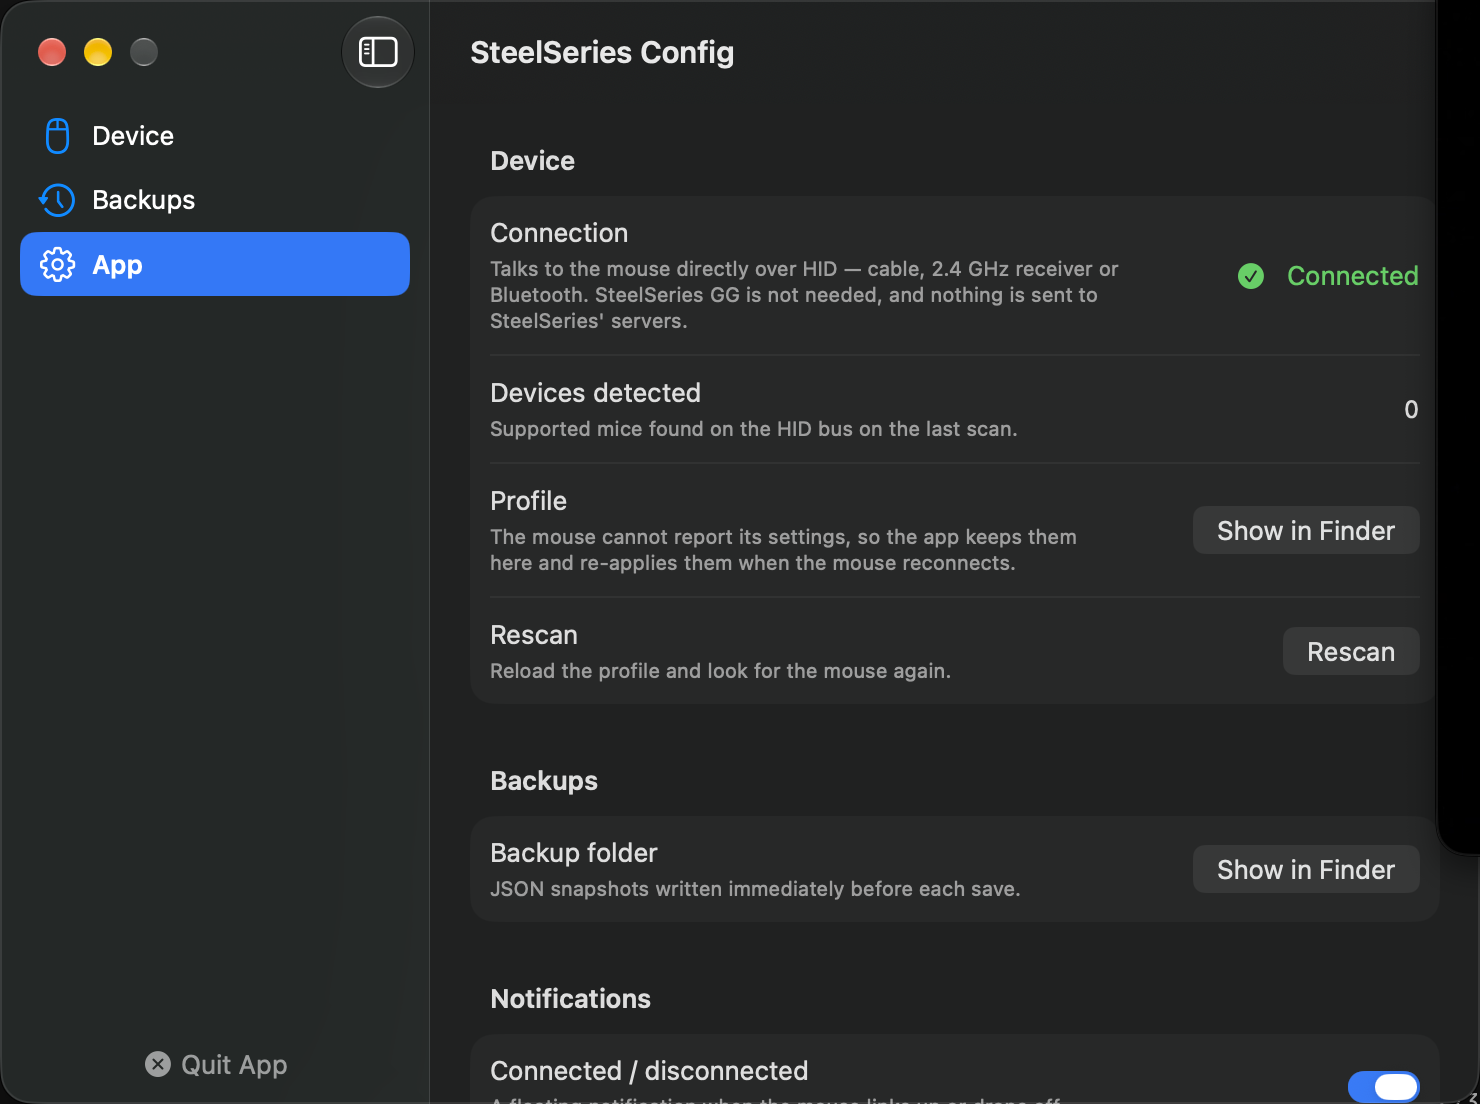
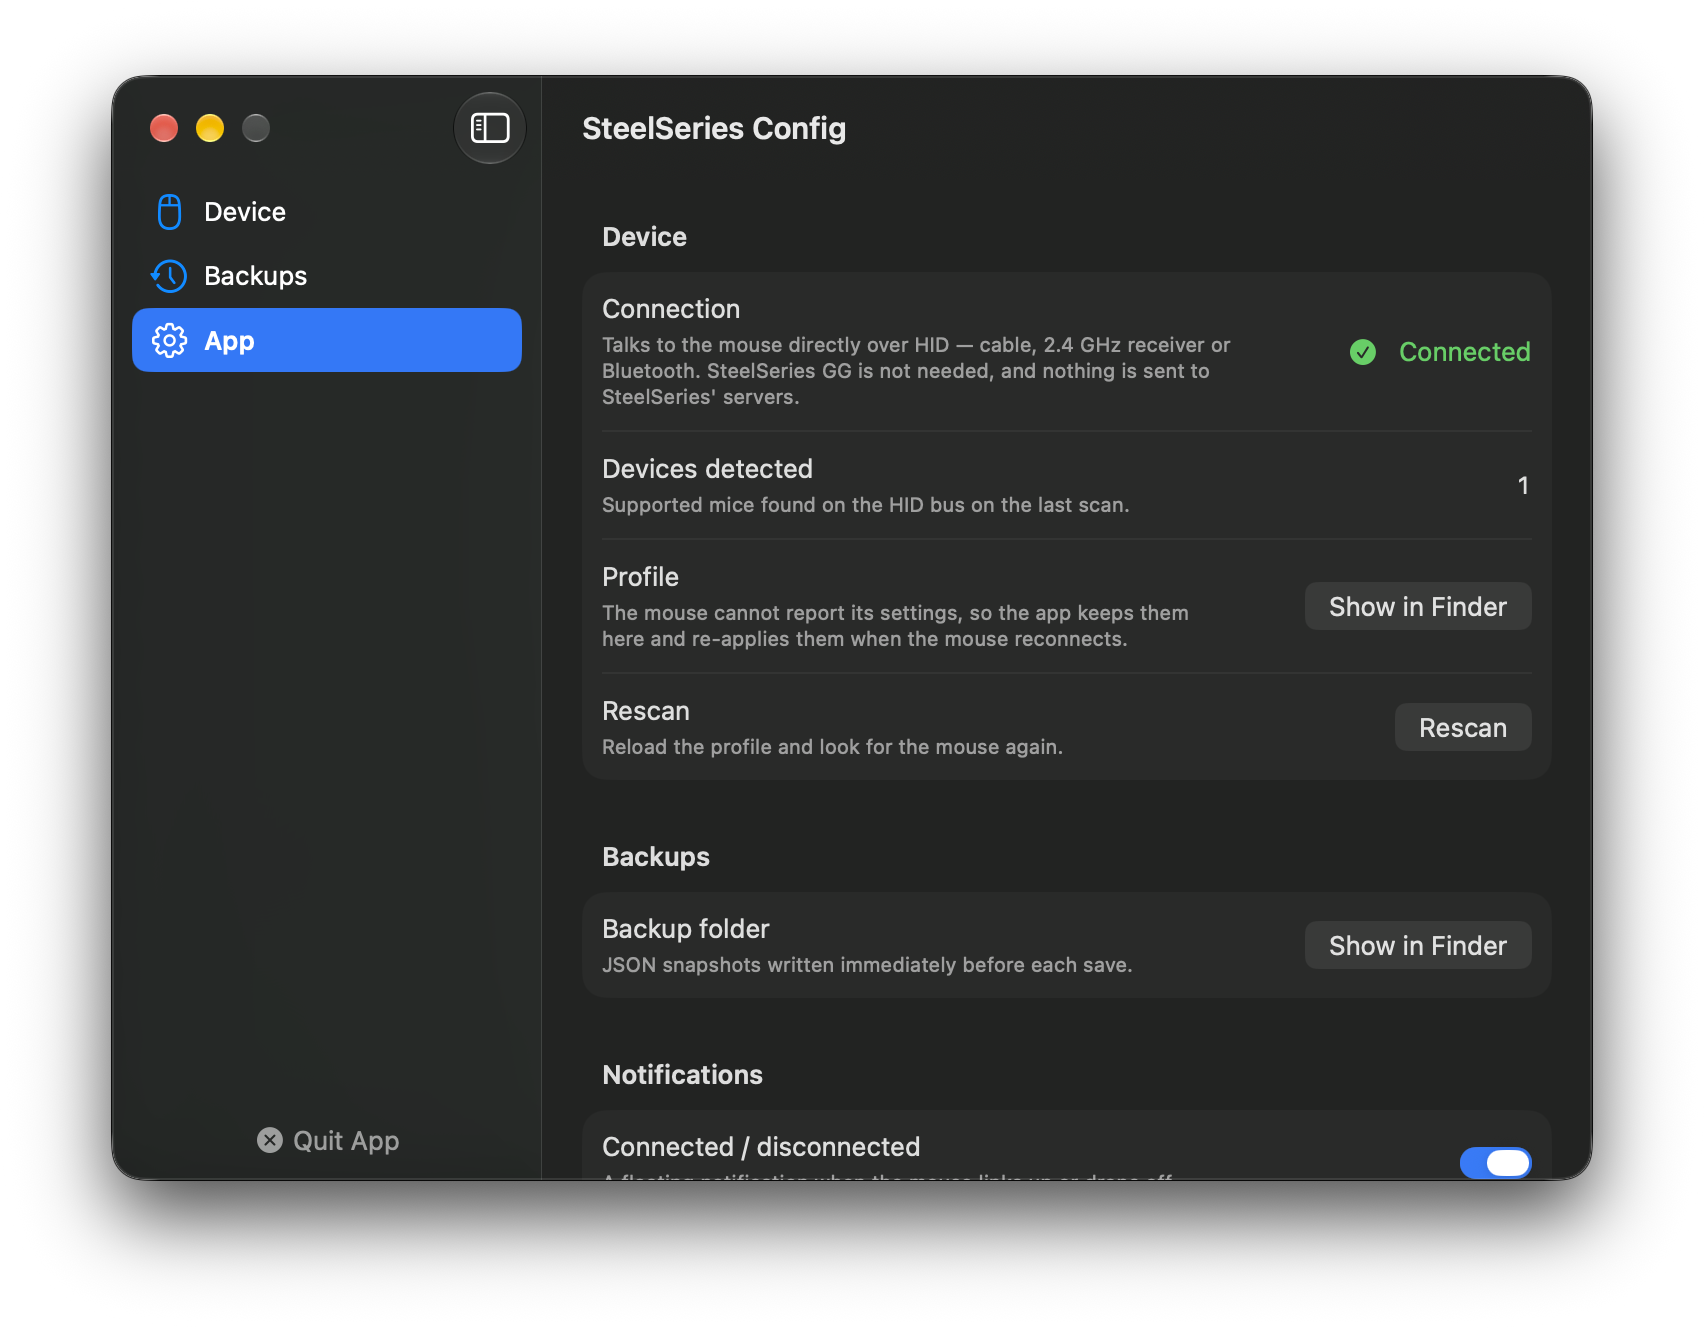
Retake the README screenshots with the mouse connected
- Capture the menu bar popover, Sensitivity, Illumination, Buttons, Backups and App
  as full windows instead of cropped sections
- Keep the mouse awake during capture by disabling idle sleep so every device
  screenshot shows the connected Aerox 3 Wireless
- Add the menu bar screenshot to the README walkthrough

diff --git a/README.md b/README.md
@@ -17,6 +17,14 @@ Not affiliated with SteelSeries.
 
 ## Screenshots
 
+### Menu bar
+
+![Menu bar popover: device status, CPI presets, CPI ladder and polling rate](docs/screenshots/home.png)
+
+Clicking the menu bar icon opens the everyday controls: connection and battery state,
+CPI presets, the five-step CPI ladder and polling rate. The footer reports the last write
+to the mouse.
+
 ### Sensitivity
 
 ![Sensitivity section: five-step CPI ladder and polling rate](docs/screenshots/sensitivity.png)
@@ -45,8 +53,8 @@ buttons, the CPI toggle, the scroll wheel and *Disabled*.
 
 ![Backups tab listing automatic profile snapshots](docs/screenshots/backups.png)
 
-A JSON snapshot is written automatically before every save. *Load* restores a snapshot,
-*Show Folder* opens the backup directory in Finder, and *Refresh* re-reads it.
+A JSON snapshot is written automatically before every write to the engine. *Load* restores
+a snapshot, *Show Folder* opens the backup directory in Finder, and *Refresh* re-reads it.
 
 ### App
 
